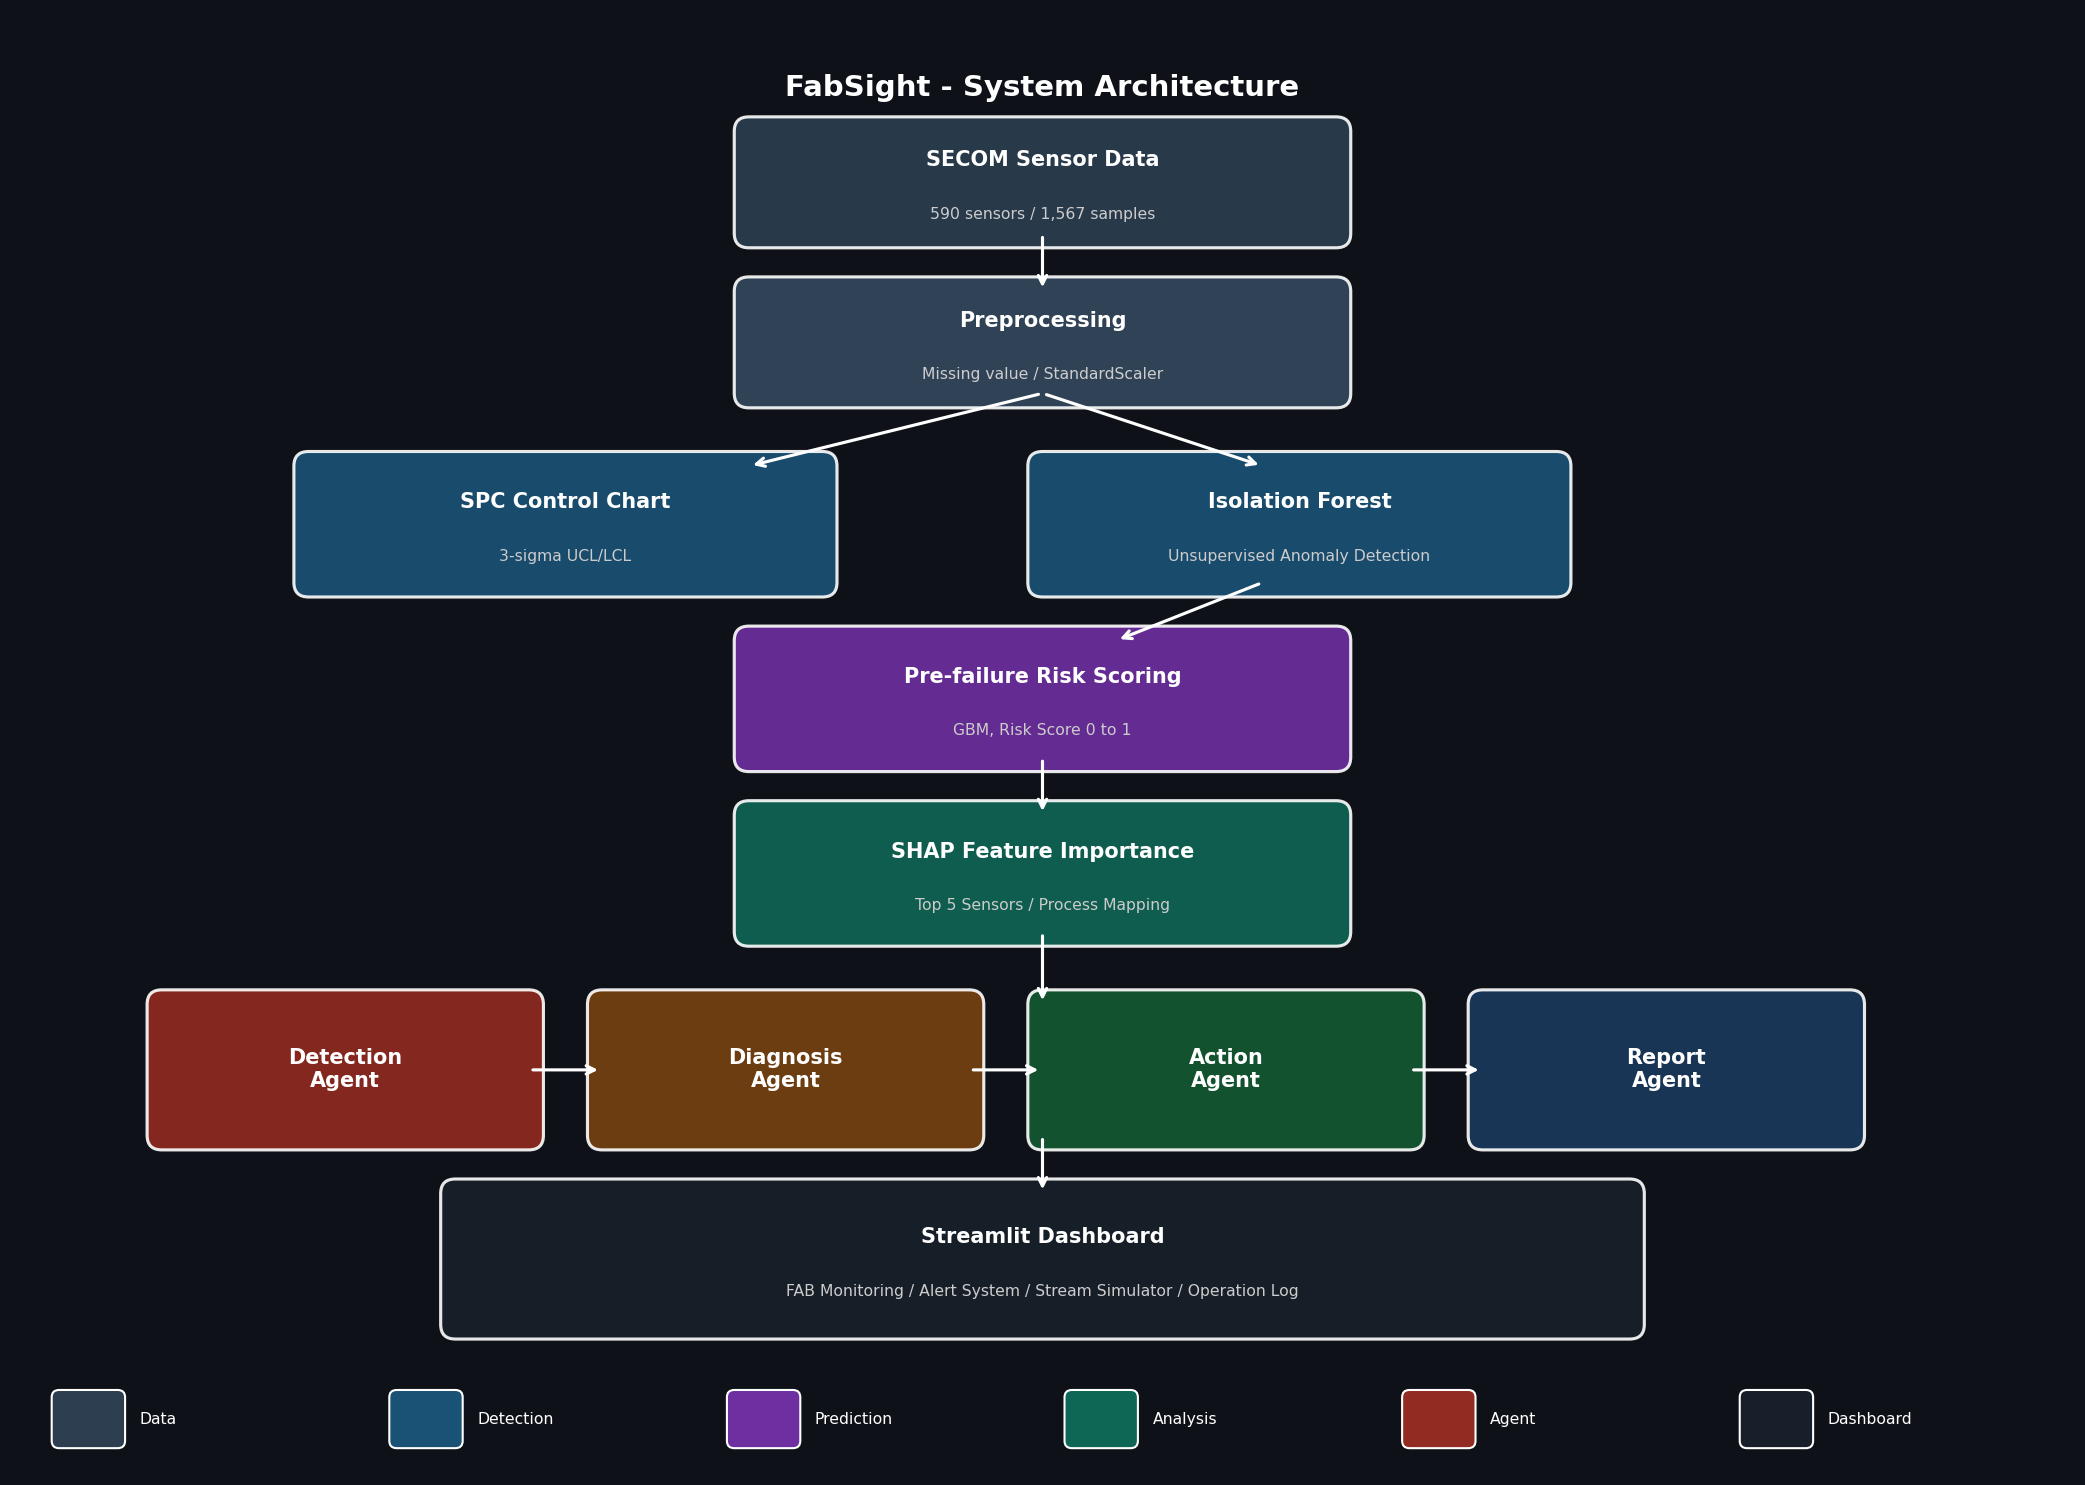
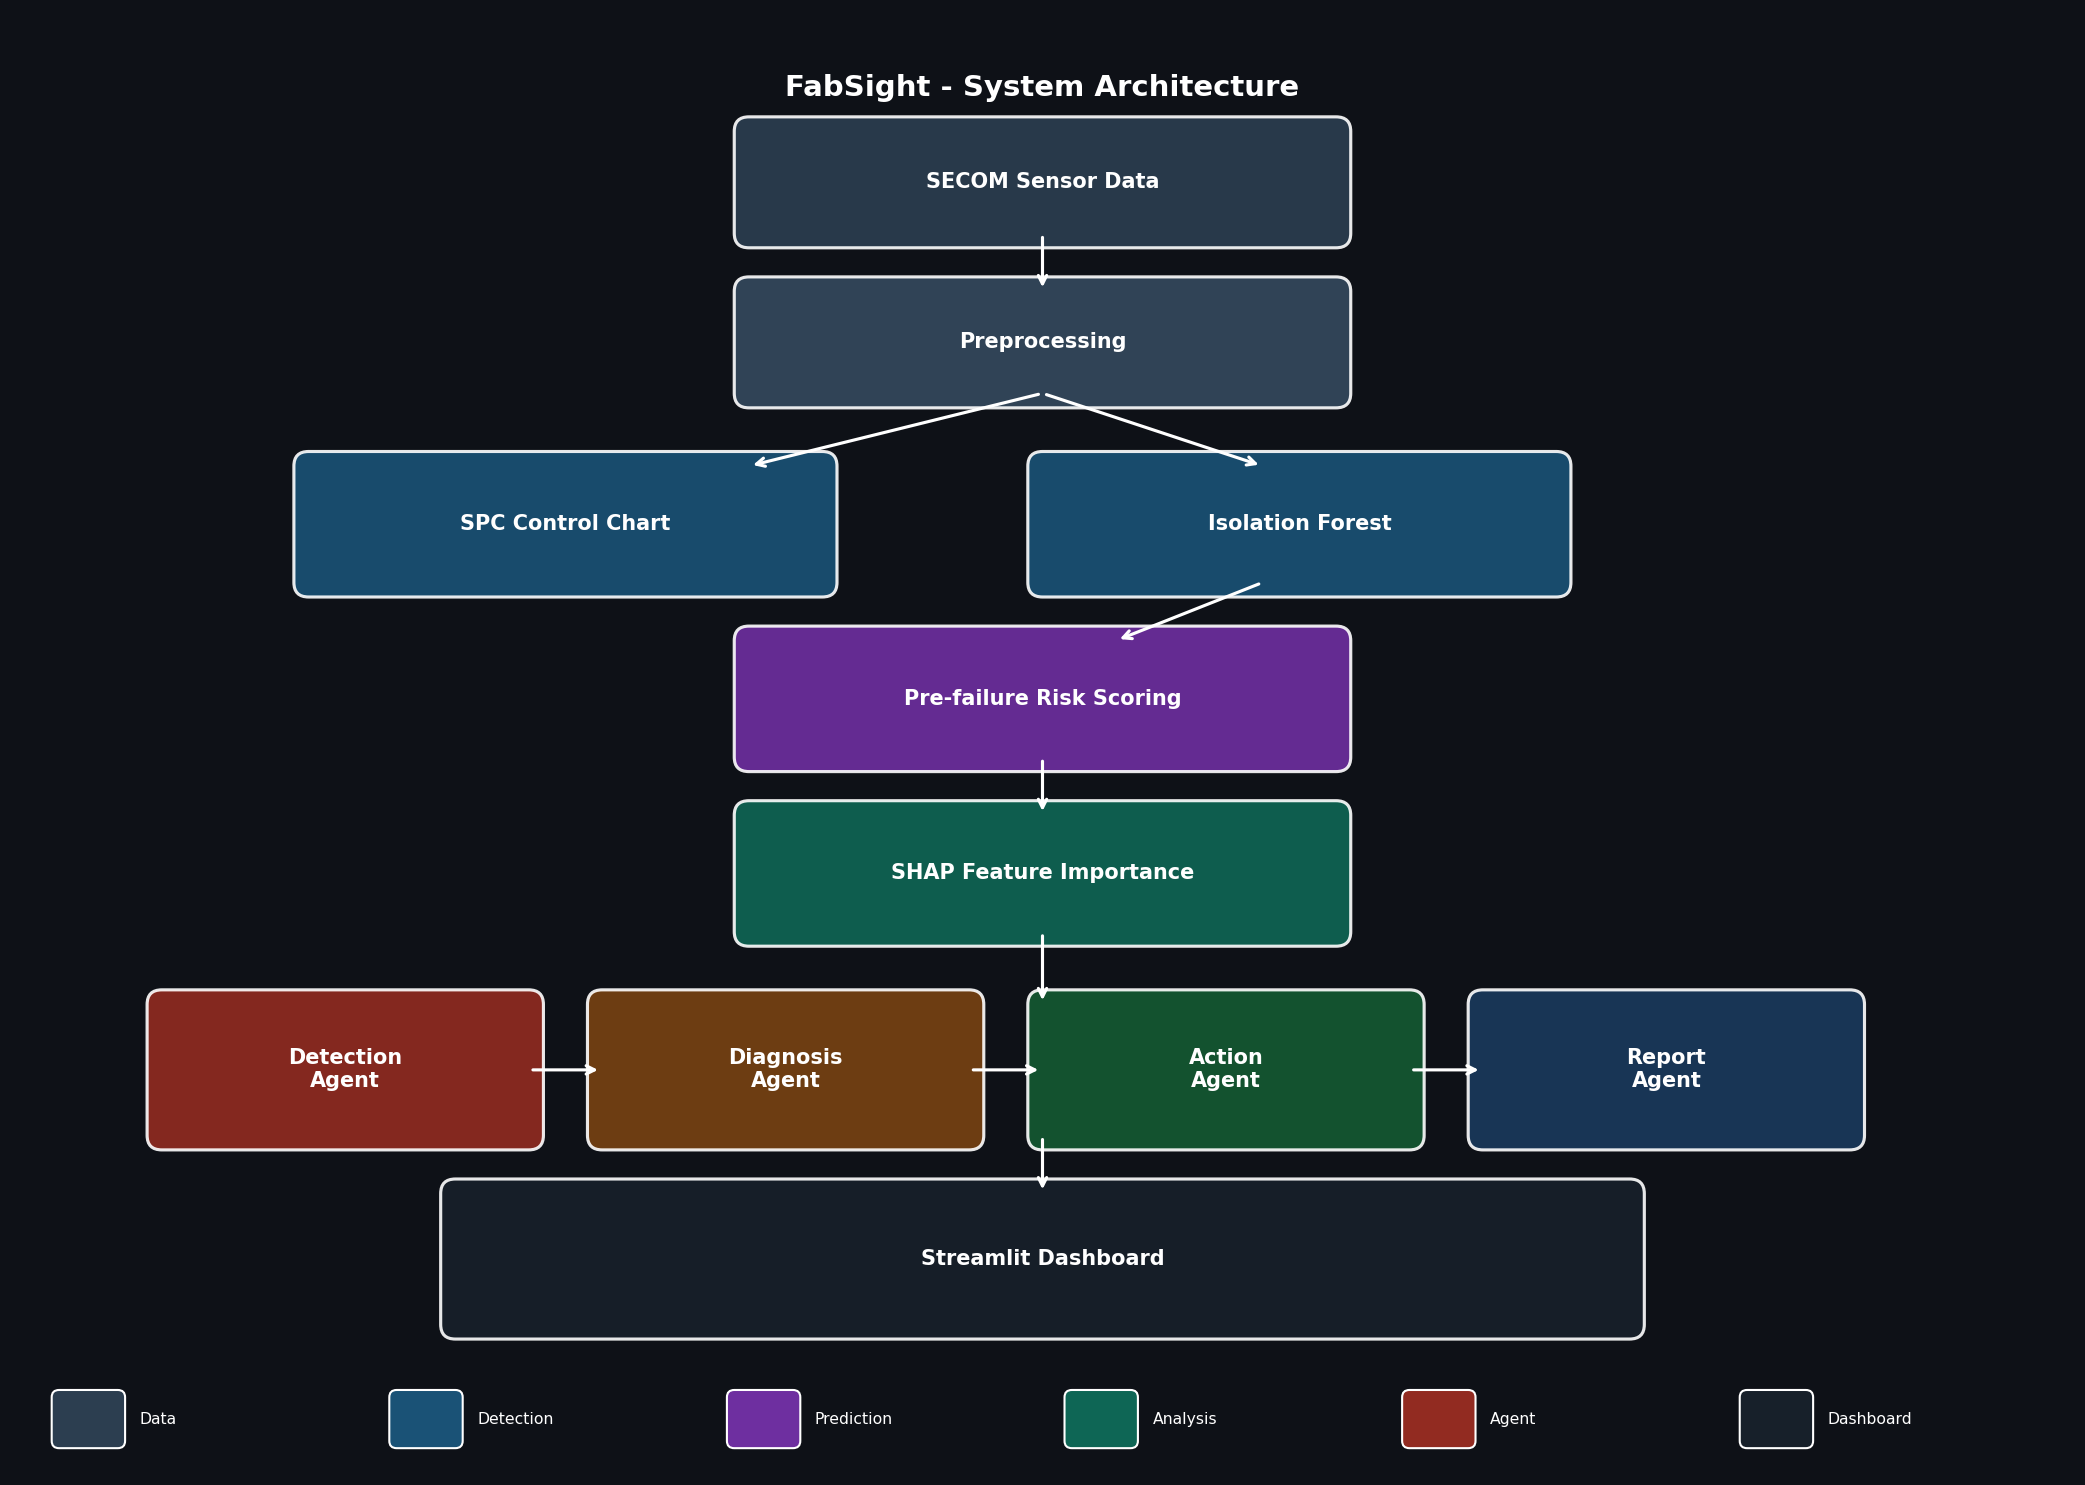
fix: remove sublabels from architecture diagram

diff --git a/docs/generate_architecture.py b/docs/generate_architecture.py
@@ -9,15 +9,12 @@ ax.set_ylim(0, 10)
 ax.axis('off')
 fig.patch.set_facecolor('#0e1117')
 
-def draw_box(ax, x, y, w, h, label, sublabel="", color="#1f77b4"):
+def draw_box(ax, x, y, w, h, label, color="#1f77b4"):
     box = FancyBboxPatch((x, y), w, h, boxstyle="round,pad=0.1",
                          facecolor=color, edgecolor="white", linewidth=1.5, alpha=0.9)
     ax.add_patch(box)
-    ax.text(x + w/2, y + h/2 + (0.15 if sublabel else 0),
-            label, ha='center', va='center', color='white', fontsize=10, fontweight='bold')
-    if sublabel:
-        ax.text(x + w/2, y + h/2 - 0.22, sublabel, ha='center', va='center',
-                color='#cccccc', fontsize=7.5)
+    ax.text(x + w/2, y + h/2, label, ha='center', va='center',
+            color='white', fontsize=10, fontweight='bold')
 
 def arrow(ax, x1, y1, x2, y2):
     ax.annotate("", xy=(x2, y2), xytext=(x1, y1),
@@ -26,31 +23,30 @@ def arrow(ax, x1, y1, x2, y2):
 ax.text(7, 9.5, "FabSight - System Architecture",
         ha='center', va='center', color='white', fontsize=14, fontweight='bold')
 
-draw_box(ax, 5, 8.5, 4, 0.7, "SECOM Sensor Data", "590 sensors / 1,567 samples", "#2c3e50")
-draw_box(ax, 5, 7.4, 4, 0.7, "Preprocessing", "Missing value / StandardScaler", "#34495e")
+draw_box(ax, 5, 8.5, 4, 0.7, "SECOM Sensor Data", "#2c3e50")
+draw_box(ax, 5, 7.4, 4, 0.7, "Preprocessing", "#34495e")
 arrow(ax, 7, 8.5, 7, 8.1)
 
-draw_box(ax, 2.0, 6.1, 3.5, 0.8, "SPC Control Chart", "3-sigma UCL/LCL", "#1a5276")
-draw_box(ax, 7.0, 6.1, 3.5, 0.8, "Isolation Forest", "Unsupervised Anomaly Detection", "#1a5276")
+draw_box(ax, 2.0, 6.1, 3.5, 0.8, "SPC Control Chart", "#1a5276")
+draw_box(ax, 7.0, 6.1, 3.5, 0.8, "Isolation Forest", "#1a5276")
 arrow(ax, 7, 7.4, 5.0, 6.9)
 arrow(ax, 7, 7.4, 8.5, 6.9)
 
-draw_box(ax, 5, 4.9, 4, 0.8, "Pre-failure Risk Scoring", "GBM, Risk Score 0 to 1", "#6e2fa0")
+draw_box(ax, 5, 4.9, 4, 0.8, "Pre-failure Risk Scoring", "#6e2fa0")
 arrow(ax, 8.5, 6.1, 7.5, 5.7)
 
-draw_box(ax, 5, 3.7, 4, 0.8, "SHAP Feature Importance", "Top 5 Sensors / Process Mapping", "#0e6655")
+draw_box(ax, 5, 3.7, 4, 0.8, "SHAP Feature Importance", "#0e6655")
 arrow(ax, 7, 4.9, 7, 4.5)
 
 agent_colors = ["#922b21", "#784212", "#145a32", "#1a3a5c"]
 agent_labels = ["Detection\nAgent", "Diagnosis\nAgent", "Action\nAgent", "Report\nAgent"]
 for i, (label, color) in enumerate(zip(agent_labels, agent_colors)):
-    draw_box(ax, 1 + i*3, 2.3, 2.5, 0.9, label, "", color)
+    draw_box(ax, 1 + i*3, 2.3, 2.5, 0.9, label, color)
     if i < 3:
         arrow(ax, 3.5 + i*3, 2.75, 4 + i*3, 2.75)
 arrow(ax, 7, 3.7, 7, 3.2)
 
-draw_box(ax, 3.0, 1.0, 8, 0.9, "Streamlit Dashboard",
-         "FAB Monitoring / Alert System / Stream Simulator / Operation Log", "#17202a")
+draw_box(ax, 3.0, 1.0, 8, 0.9, "Streamlit Dashboard", "#17202a")
 arrow(ax, 7, 2.3, 7, 1.9)
 
 legend = [("#2c3e50","Data"),("#1a5276","Detection"),("#6e2fa0","Prediction"),
